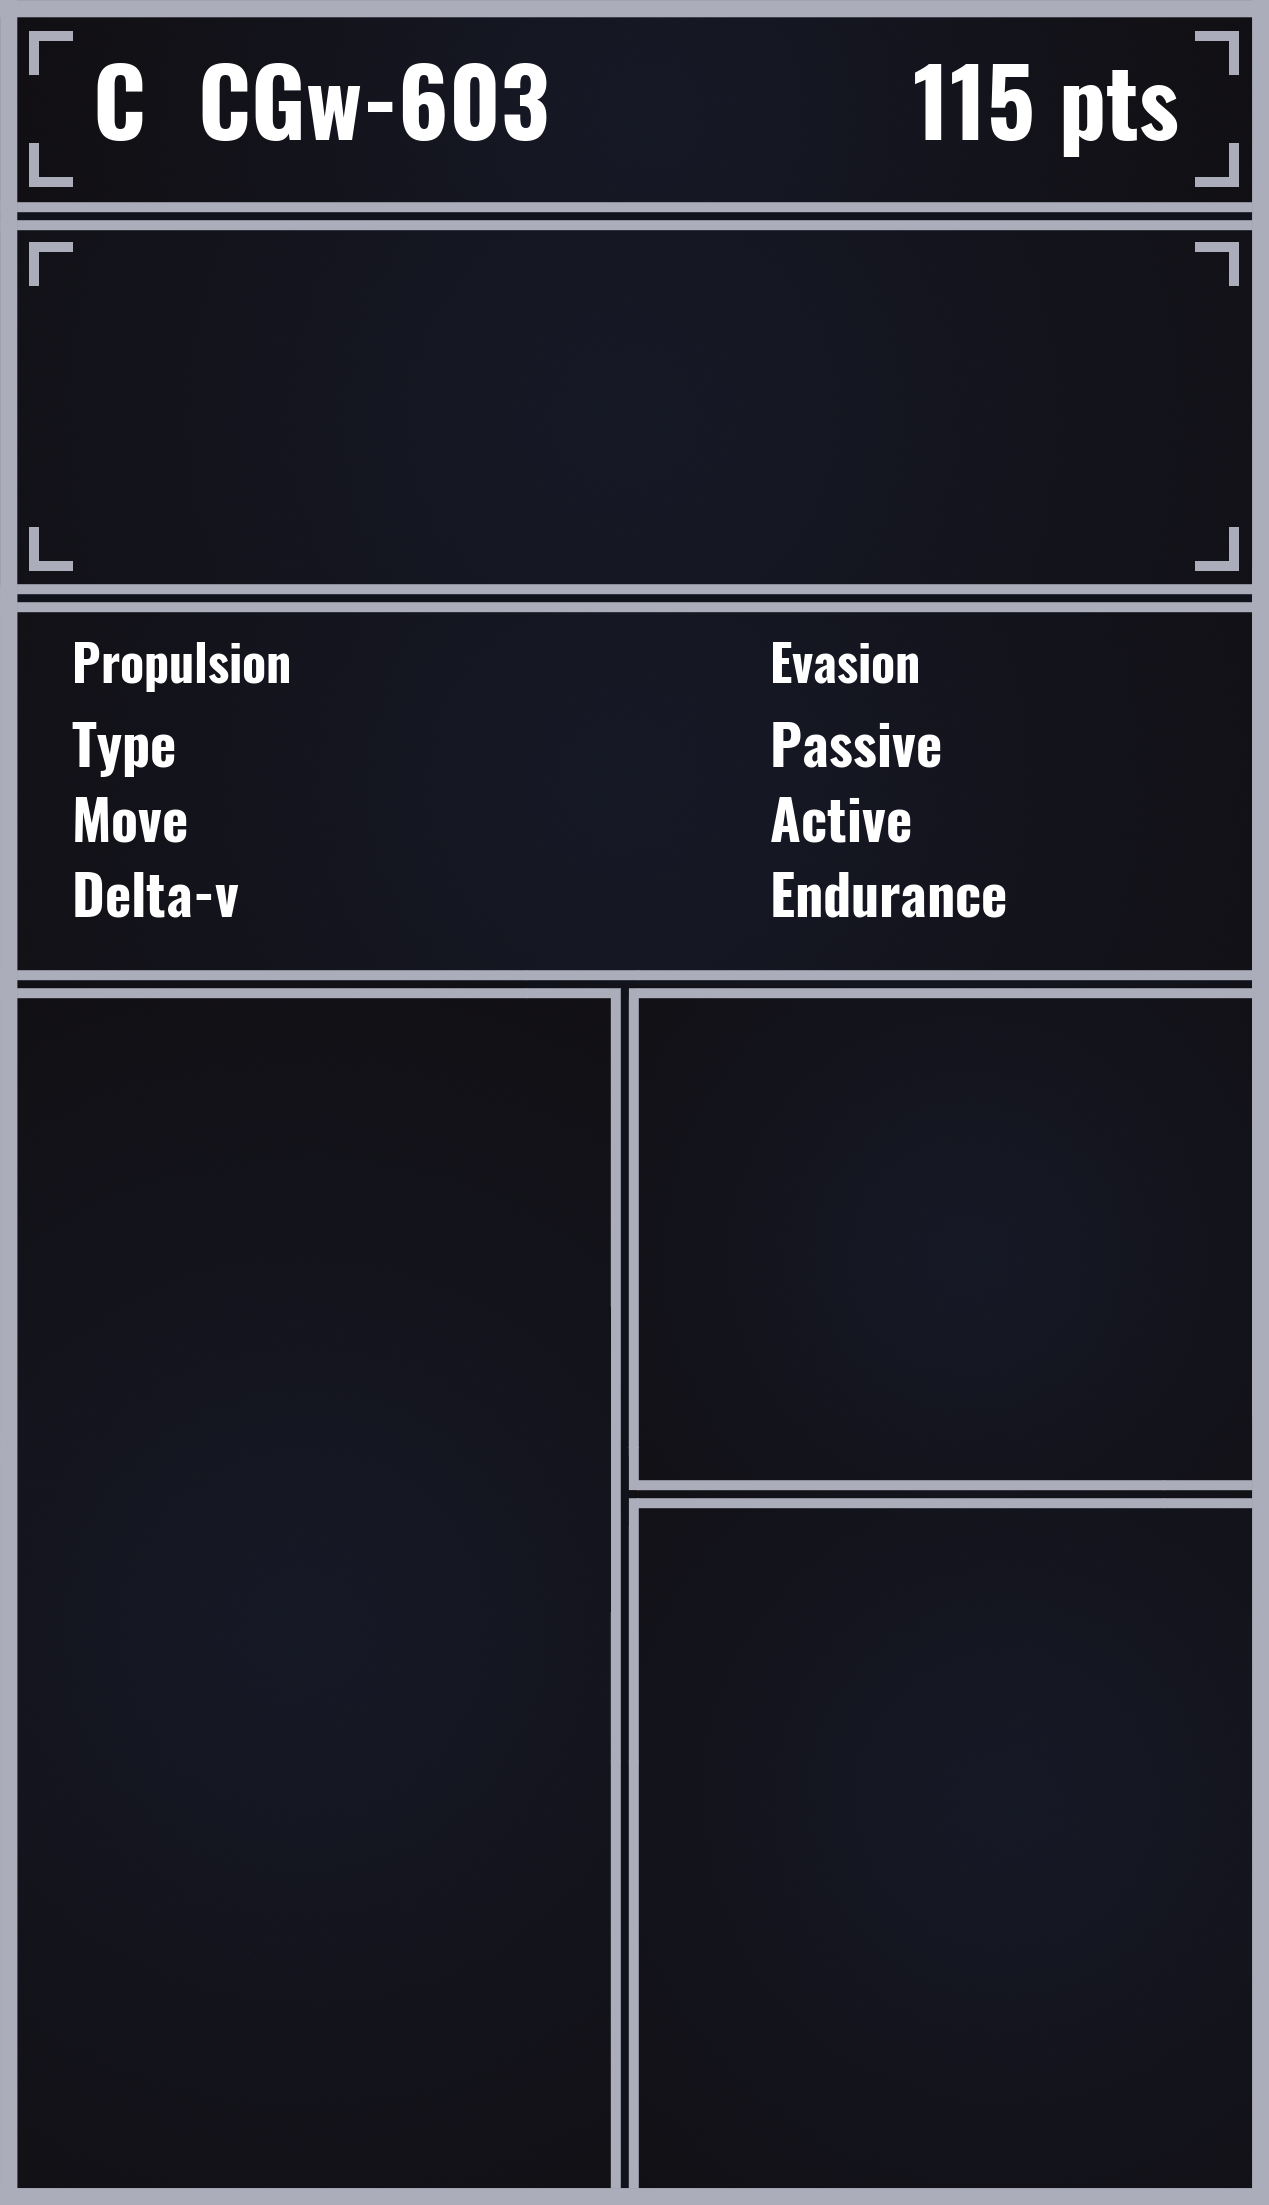
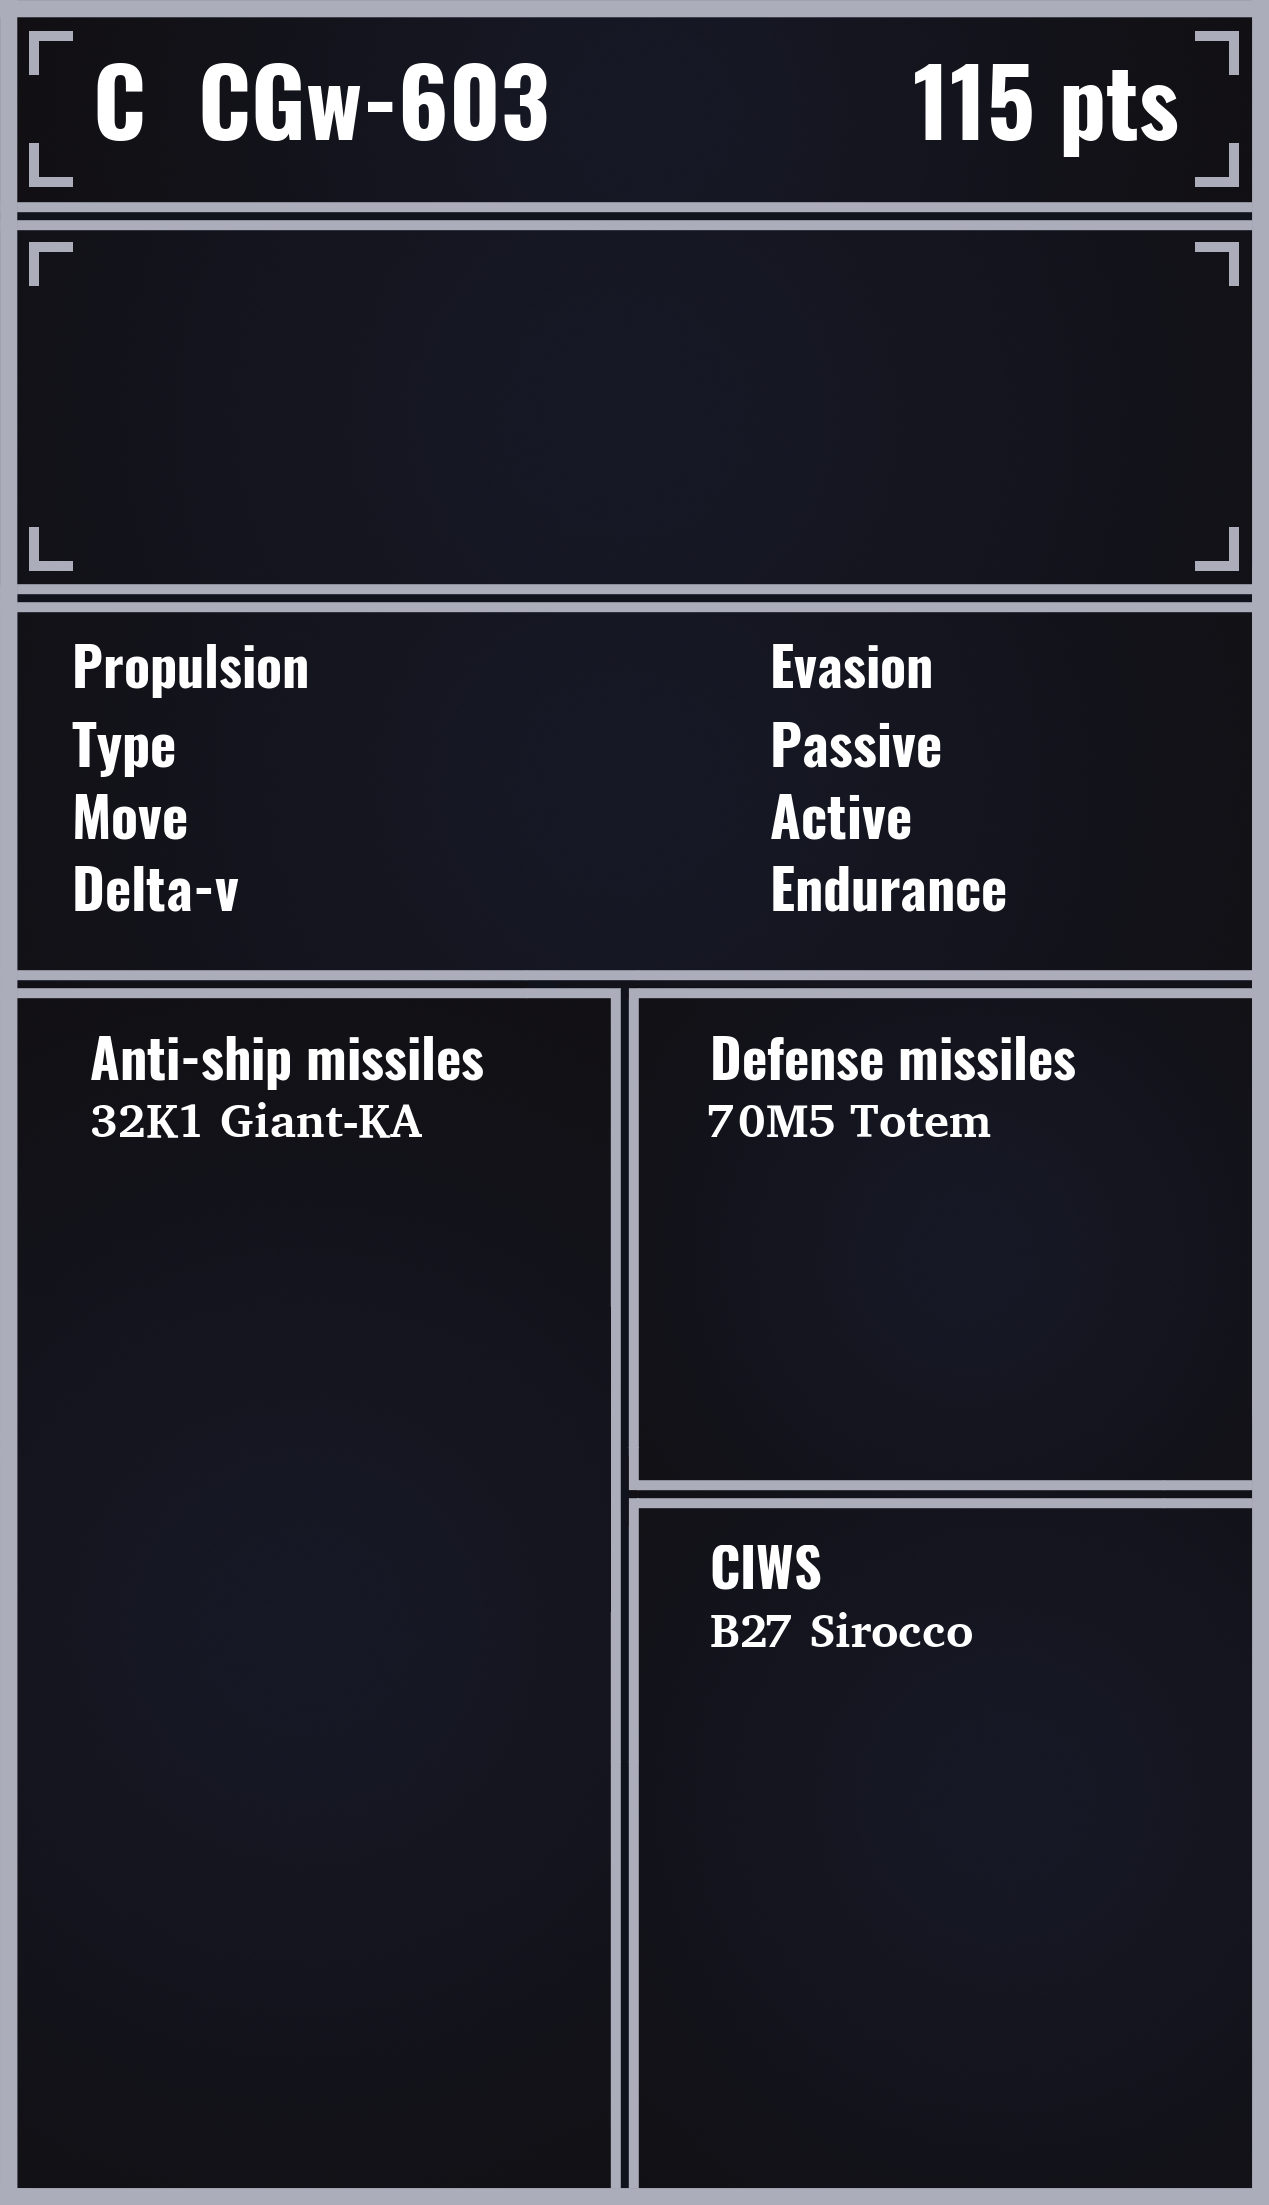
Continue card generating feature dev

diff --git a/application/cardgenerator/card_generator.py b/application/cardgenerator/card_generator.py
@@ -1,12 +1,13 @@
 from PIL import Image, ImageDraw, ImageFont
 from application.cardgenerator.card_size import CardSize
+from application.weapons.models import *
 
 class CardGenerator():
 
     def generate_card(self, ship, card_size):
-        self.stat_vertical_sep = 75
+        self.stat_vertical_sep = 72
 
-        image = self.init_image(card_size)
+        image = self.init_card(card_size)
         drawer = ImageDraw.Draw(image)
         
         # Draw title and cost. If ship is command-capable, move title a little way to the right and draw command icon.
@@ -19,27 +20,6 @@ class CardGenerator():
 
         drawer.text(xy=(913, 27), text=str(ship.cost)+" pts", fill=(255,255,255), font=self.ship_title_font)
 
-        # Draw evasion endurance stat name if ship has a pulse drive
-        if "pulse" or "Pulse" in ship.propulsion_type:
-            drawer.text(xy=(770,700+self.stat_vertical_sep*2), text="Endurance", fill=(255,255,255), font=self.stats_font)
-
-
-
-        image.save("application/cardgenerator/assets/result.png")
-
-    def init_image(self, card_size):
-        # This method doesn't actually use the card size yet
-        image = Image.open("application/cardgenerator/assets/templates/card_base_1.png")
-
-        # Set fonts
-        self.ship_title_font = ImageFont.truetype("application/cardgenerator/assets/fonts/Oswald-Bold.ttf", 94)
-        self.sub_title_font = ImageFont.truetype("application/cardgenerator/assets/fonts/Oswald-Bold.ttf", 50)
-        self.stats_font = ImageFont.truetype("application/cardgenerator/assets/fonts/Oswald-Bold.ttf", 56)
-        self.flavor_font = ImageFont.truetype("application/cardgenerator/assets/fonts/CharisSIL-B.ttf", 47)
-
-        ## Draw text common to all images
-        drawer = ImageDraw.Draw(image)
-        
         # Draw subsection titles
         drawer.text(xy=(72,623), text="Propulsion", fill=(255,255,255), font=self.sub_title_font)
         drawer.text(xy=(770,623), text="Evasion", fill=(255,255,255), font=self.sub_title_font)
@@ -48,11 +28,94 @@ class CardGenerator():
         drawer.text(xy=(72,700), text="Type", fill=(255,255,255), font=self.stats_font)
         drawer.text(xy=(72,700+self.stat_vertical_sep), text="Move", fill=(255,255,255), font=self.stats_font)
         drawer.text(xy=(72,700+2*self.stat_vertical_sep), text="Delta-v", fill=(255,255,255), font=self.stats_font)
-        # Note: Passive evasion stat name is not drawn here since not all ships have it
         drawer.text(xy=(770,700), text="Passive", fill=(255,255,255), font=self.stats_font)
         drawer.text(xy=(770,700+self.stat_vertical_sep), text="Active", fill=(255,255,255), font=self.stats_font)
+        # Draw evasion endurance stat name if ship has a pulse drive
+        if "pulse" or "Pulse" in ship.propulsion_type:
+            drawer.text(xy=(770,700+self.stat_vertical_sep*2), text="Endurance", fill=(255,255,255), font=self.stats_font)
 
+        self.draw_weapons(self.get_weapons(ship), drawer)
 
+        image.save("application/cardgenerator/assets/result.png")
 
+    def init_card(self, card_size):
+        # This method doesn't actually use the card size yet
+        image = Image.open("application/cardgenerator/assets/templates/card_base_1.png")
+
+        # Set fonts
+        self.ship_title_font = ImageFont.truetype("application/cardgenerator/assets/fonts/Oswald-Bold.ttf", 94)
+        self.sub_title_font = ImageFont.truetype("application/cardgenerator/assets/fonts/Oswald-Bold.ttf", 54)
+        self.stats_font = ImageFont.truetype("application/cardgenerator/assets/fonts/Oswald-Bold.ttf", 56)
+        self.flavor_font = ImageFont.truetype("application/cardgenerator/assets/fonts/CharisSIL-B.ttf", 47)
 
         return image
+
+    def get_weapons(self, ship):
+        # Note: Due to SQLAlchemy weirdness these are InstrumentedLists and iterating through them may not
+        # actually work. However, retrieving the first works, and we only really need one of them as multiple
+        # weapons of the same type are not even intended to be handled by the cards.
+        weapons = []
+
+        if next(iter(ship.CIWSs), None):
+            weapons.insert(0, next(iter(ship.CIWSs)))
+
+        if next(iter(ship.ewars), None):
+            weapons.insert(0, next(iter(ship.ewars)))
+
+        if next(iter(ship.area_missiles), None):
+            weapons.insert(0, next(iter(ship.area_missiles)))
+
+        if next(iter(ship.missiles), None):
+            weapons.insert(0, next(iter(ship.missiles)))
+
+        if next(iter(ship.lasers), None):
+            weapons.insert(0, next(iter(ship.lasers)))
+
+        return weapons
+
+
+    def draw_weapons(self, weapons, drawer):
+        i = 0
+        while i < 3:
+            if i == 0:
+                startcoords = (90,1015)
+            if i == 1:
+                startcoords = (710,1015)
+            if i == 2:
+                startcoords = (710,1525)
+
+            # Coords for weapon flavor text
+            flavorcoords = tuple(sum(x) for x in zip(startcoords, (0,65)))
+
+
+            if isinstance(weapons[i], Laser):
+                drawer.text(xy=startcoords, text="Beam", fill=(255,255,255), font=self.sub_title_font)
+                drawer.text(xy=flavorcoords, text=weapons[i].name, fill=(255,255,255), font=self.flavor_font)
+                # When laser data type is actually completely implemented range/dmg goes here
+
+            if isinstance(weapons[i], Missile):
+                drawer.text(xy=startcoords, text="Anti-ship missiles", fill=(255,255,255), font=self.sub_title_font)
+                drawer.text(xy=flavorcoords + (400,400), text=weapons[i].name, fill=(255,255,255), font=self.flavor_font)
+
+            if isinstance(weapons[i], AreaMissile):
+                # Differentiate between defense and attack missiles
+                if not weapons[i].dmg_missile:
+                    drawer.text(xy=startcoords, text="Assault missiles", fill=(255,255,255), font=self.sub_title_font)
+                else:
+                    drawer.text(xy=startcoords, text="Defense missiles", fill=(255,255,255), font=self.sub_title_font)
+                drawer.text(xy=flavorcoords, text=weapons[i].name, fill=(255,255,255), font=self.flavor_font)
+
+
+            if isinstance(weapons[i], Ewar):
+                drawer.text(xy=startcoords, text="Ewar suite", fill=(255,255,255), font=self.sub_title_font)
+                drawer.text(xy=flavorcoords, text=weapons[i].name, fill=(255,255,255), font=self.flavor_font)
+
+            if isinstance(weapons[i], CIWS):
+                drawer.text(xy=startcoords, text="CIWS", fill=(255,255,255), font=self.sub_title_font)
+                drawer.text(xy=flavorcoords, text=weapons[i].name, fill=(255,255,255), font=self.flavor_font)
+
+            i += 1
+                
+
+
+

diff --git a/application/__init__.py b/application/__init__.py
@@ -91,6 +91,6 @@ db.session().commit()
 from application.cardgenerator.card_generator import CardGenerator, CardSize
 from application.ships.models import Ship
 
-#ship = Ship.query.get(7)
-#card_generator = CardGenerator()
-#card_generator.generate_card(ship, CardSize.BIG)
+ship = Ship.query.get(1)
+card_generator = CardGenerator()
+card_generator.generate_card(ship, CardSize.BIG)
